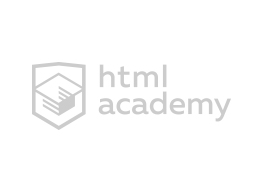
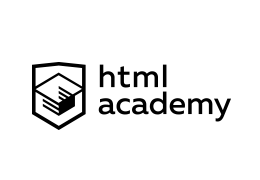
Правки отображения блока брендов

Changed region(s): [[0.3692, 0.3611, 0.8923, 0.6944], [0.1231, 0.3333, 0.3385, 0.7222]]

diff --git a/index.html b/index.html
@@ -7,67 +7,71 @@
     <link rel="stylesheet" type="text/css" href="css/style.css">
 </head>
 <body>
-	<header class="header container">
-		<a class="header__link" href="index.html">
-			<img class="header__logo" src="img/logo.png" width="160" height="65" alt="Наш логотип">
-		</a>
-		<nav class="menu">
-			<ul class="menu__list">
-				<li class="menu__item"><a class="menu__link" href="#">Студия</a></li>
-				<li class="menu__item"><a class="menu__link" href="#">Клиенты</a></li>
-				<li class="menu__item"><a class="menu__link" href="catalog.html">Магазин</a></li>
-				<li class="menu__item"><a class="menu__link" href="#">Контакты</a></li>
-				<li class="menu__item menu__item--cart"><a class="menu__link menu__link--cart" href="#">Корзина</a></li>
-			</ul>
-		</nav>
+	<header class="header">
+		<div class="header__wrapper container">
+			<a class="header__link" href="index.html">
+				<img class="header__logo" src="img/logo.png" width="160" height="65" alt="Наш логотип">
+			</a>
+			<nav class="menu">
+				<ul class="menu__list">
+					<li class="menu__item"><a class="menu__link" href="#">Студия</a></li>
+					<li class="menu__item"><a class="menu__link" href="#">Клиенты</a></li>
+					<li class="menu__item"><a class="menu__link" href="catalog.html">Магазин</a></li>
+					<li class="menu__item"><a class="menu__link" href="#">Контакты</a></li>
+					<li class="menu__item menu__item--cart"><a class="menu__link menu__link--cart" href="#">Корзина</a></li>
+				</ul>
+			</nav>
+		</div>
 	</header>
 
 	<main>
-		<section class="promo container">
-			<h2 class="visually-hidden">Наши преимущества</h2>
-			<input class="promo__slider-input promo__slider-input--1" type="radio" name="advantage" id="radio-1" checked>
-			<input class="promo__slider-input promo__slider-input--2" type="radio" name="advantage" id="radio-2">
-			<input class="promo__slider-input promo__slider-input--3" type="radio" name="advantage" id="radio-3">
-			<ul class="promo__list">
-				<li class="promo__item item-promo">
-					<div class="item-promo--slider-1">
-						<div class="item-promo__description description">
-							<p class="description__title">Долго, дорого, скрупулезно.</p>
-							<p class="description__text">Математически вывереный дизайн для вашего сайта или мобильного приложения.</p>
-							<a class="description__button button" href="#">Узнать больше</a>
+		<section class="promo">
+			<div class="promo__wrapper container">
+				<h2 class="visually-hidden">Наши преимущества</h2>
+				<input class="promo__slider-input promo__slider-input--1" type="radio" name="advantage" id="radio-1" checked>
+				<input class="promo__slider-input promo__slider-input--2" type="radio" name="advantage" id="radio-2">
+				<input class="promo__slider-input promo__slider-input--3" type="radio" name="advantage" id="radio-3">
+				<ul class="promo__list">
+					<li class="promo__item item-promo">
+						<div class="item-promo--slider-1">
+							<div class="item-promo__description description">
+								<p class="description__title">Долго, дорого, скрупулезно.</p>
+								<p class="description__text">Математически вывереный дизайн для вашего сайта или мобильного приложения.</p>
+								<a class="description__button button" href="#">Узнать больше</a>
+							</div>
+							<div class="item-promo__img-wrapper item-promo__img-wrapper--1"></div>
 						</div>
-						<div class="item-promo__img-wrapper item-promo__img-wrapper--1"></div>
-					</div>
-				</li>
+					</li>
 
-				<li class="promo__item item-promo">
-					<div class="item-promo--slider-2">
-						<div class="item-promo__description description">
-							<p class="description__title">Любим математику как никто другой.</p>
-							<p class="description__text">Никакого креатива, только математические формулы для расчета идеальных пропорций.</p>
-							<a class="description__button button" href="#">Узнать больше</a>
+					<li class="promo__item item-promo">
+						<div class="item-promo--slider-2">
+							<div class="item-promo__description description">
+								<p class="description__title">Любим математику как никто другой.</p>
+								<p class="description__text">Никакого креатива, только математические формулы для расчета идеальных пропорций.</p>
+								<a class="description__button button" href="#">Узнать больше</a>
+							</div>
+							<div class="item-promo__img-wrapper item-promo__img-wrapper--2"></div>
 						</div>
-						<div class="item-promo__img-wrapper item-promo__img-wrapper--2"></div>
-					</div>
-				</li>
+					</li>
 
-				<li class="promo__item item-promo">
-					<div class="item-promo--slider-3">
-						<div class="item-promo__description description">
-							<p class="description__title">Только ночь, только хардкор.</p>
-							<p class="description__text">Работать днем, как все? Мы против этого. Ближе к полуночи работа только начинается.</p>
-							<a class="description__button button" href="#">Узнать больше</a>
+					<li class="promo__item item-promo">
+						<div class="item-promo--slider-3">
+							<div class="item-promo__description description">
+								<p class="description__title">Только ночь, только хардкор.</p>
+								<p class="description__text">Работать днем, как все? Мы против этого. Ближе к полуночи работа только начинается.</p>
+								<a class="description__button button" href="#">Узнать больше</a>
+							</div>
+							<div class="item-promo__img-wrapper item-promo__img-wrapper--3"></div>
 						</div>
-						<div class="item-promo__img-wrapper item-promo__img-wrapper--3"></div>
-					</div>
-				</li>
-			</ul>
+					</li>
+				</ul>
 
-			<ul class="promo__list controls">
-				<li class="controls__item"><label class="controls__label" for="radio-1" tabindex="0"></label></li>
-				<li class="controls__item"><label class="controls__label" for="radio-2" tabindex="0"></label></li>
-				<li class="controls__item"><label class="controls__label" for="radio-3" tabindex="0"></label></li>
-			</ul>
+				<ul class="promo__list controls">
+					<li class="controls__item"><label class="controls__label" for="radio-1" tabindex="0"></label></li>
+					<li class="controls__item"><label class="controls__label" for="radio-2" tabindex="0"></label></li>
+					<li class="controls__item"><label class="controls__label" for="radio-3" tabindex="0"></label></li>
+				</ul>
+			</div>
 		</section>
 
 		<section class="service container">
@@ -136,16 +140,16 @@
 		<section class="brands container">
 			<h2 class="visually-hidden">Бренды</h2>
 			<ul class="brands__list">
-				<li class="brands__item brands__item--1"><a class="brands__link" href="https://htmlacademy.ru/">
+				<li class="brands__item"><a class="brands__link" href="https://htmlacademy.ru/">
 					<img class="brands__picture" src="img/brand-1.png" width="260" height="180" alt="HTML Academy">
 				</a></li>
-				<li class="brands__item brands__item--2"><a class="brands__link" href="#">
+				<li class="brands__item"><a class="brands__link" href="#">
 					<img class="brands__picture" src="img/brand-2.png" width="260" height="180" alt="Барбершоп Бородинский">
 				</a></li>
-				<li class="brands__item brands__item--3"><a class="brands__link" href="#">
+				<li class="brands__item"><a class="brands__link" href="#">
 					<img class="brands__picture" src="img/brand-3.png" width="260" height="180" alt="Очки Pink">
 				</a></li>
-				<li class="brands__item brands__item--4"><a class="brands__link" href="#">
+				<li class="brands__item"><a class="brands__link" href="#">
 					<img class="brands__picture" src="img/brand-4.png" width="260" height="180" alt="Mishka">
 				</a></li>
 			</ul>
@@ -192,7 +196,7 @@
 				<label class="popup-letter__label">Ваш e-mail:</label>
 				<input class="popup-letter__input" type="email" name="email" id="email" placeholder="email@example.com">
 			</div>
-			<div class="popup-letter__wrapper">
+			<div class="popup-letter__wrapper popup-letter__wrapper--textarea">
 				<label class="popup-letter__label">Текст письма:</label>
 				<textarea class="popup-letter__input popup-letter__input--textarea" name="text" id="textarea" placeholder="В свободной форме"></textarea>
 			</div>

diff --git a/catalog.html b/catalog.html
@@ -7,24 +7,28 @@
     <link rel="stylesheet" type="text/css" href="css/style.css">
 </head>
 <body>
-	<header class="header container">
-		<a class="header__link" href="index.html">
-			<img class="header__logo" src="img/logo.png" width="160" height="65" alt="Наш логотип">
-		</a>
-		<nav class="menu">
-			<ul class="menu__list">
-				<li class="menu__item"><a class="menu__link" href="#">Студия</a></li>
-				<li class="menu__item"><a class="menu__link" href="#">Клиенты</a></li>
-				<li class="menu__item"><a class="menu__link menu__link--active" href="#">Магазин</a></li>
-				<li class="menu__item"><a class="menu__link" href="#">Контакты</a></li>
-				<li class="menu__item menu__item--cart"><a class="menu__link menu__link--cart" href="#">Корзина</a></li>
-			</ul>
-		</nav>
+	<header class="header">
+		<div class="header__wrapper container">
+			<a class="header__link" href="index.html">
+				<img class="header__logo" src="img/logo.png" width="160" height="65" alt="Наш логотип">
+			</a>
+			<nav class="menu">
+				<ul class="menu__list">
+					<li class="menu__item"><a class="menu__link" href="#">Студия</a></li>
+					<li class="menu__item"><a class="menu__link" href="#">Клиенты</a></li>
+					<li class="menu__item"><a class="menu__link menu__link--active" href="#">Магазин</a></li>
+					<li class="menu__item"><a class="menu__link" href="#">Контакты</a></li>
+					<li class="menu__item menu__item--cart"><a class="menu__link menu__link--cart" href="#">Корзина</a></li>
+				</ul>
+			</nav>
+		</div>
 	</header>
 
 	<main>
-		<div class="main__title-wrapper container">
-			<h1 class="main__title">Магазин готовых шаблонов</h1>
+		<div class="main__title-wrapper">
+			<div class="container">
+				<h1 class="main__title">Магазин готовых шаблонов</h1>
+			</div>
 		</div>
 
 		<div class="main__section-catalog container">

diff --git a/css/style.css b/css/style.css
@@ -27,7 +27,7 @@
 
 body{
 	max-width: 1920px;
-	min-width: 1440px;
+	min-width: 1160px;
 	min-height: 1750px;
 	margin: 0 auto;
 	padding: 0;
@@ -62,8 +62,11 @@ body{
 }
 
 .header{
-	padding-top: 50px;
 	background-color: rgba(238, 238, 238, 1);
+}
+
+.header__wrapper{
+	padding-top: 50px;
 
 	display: -webkit-box;
 	display: -ms-flexbox;
@@ -166,9 +169,12 @@ body{
 }
 
 .promo{
+	background-color: rgba(238, 238, 238, 1);
+}
+
+.promo__wrapper{
 	margin-bottom: 80px;
 	position: relative;
-	background-color: rgba(238, 238, 238, 1);
 }
 
 .promo__list{
@@ -659,40 +665,16 @@ body{
 	background-color: transparent;
 }
 
+.brands__picture{
+	opacity: 0.3;
+}
+
 .brands__picture:hover{
-	opacity: 0;
+	opacity: 1;
 }
 
-.brands__item--1{
-	background: url(../img/brand-1-hover.png);
-}
-
-.brands__item--1:active{
-	background: url(../img/brand-1-active.png);
-}
-
-.brands__item--2{
-	background: url(../img/brand-2-hover.png);
-}
-
-.brands__item--2:active{
-	background: url(../img/brand-2-active.png);
-}
-
-.brands__item--3{
-	background: url(../img/brand-3-hover.png);
-}
-
-.brands__item--3:active{
-	background: url(../img/brand-3-active.png);
-}
-
-.brands__item--4{
-	background: url(../img/brand-4-hover.png);
-}
-
-.brands__item--4:active{
-	background: url(../img/brand-4-active.png);
+.brands__picture:active{
+	opacity: 0.1;
 }
 
 .main__title-wrapper{
